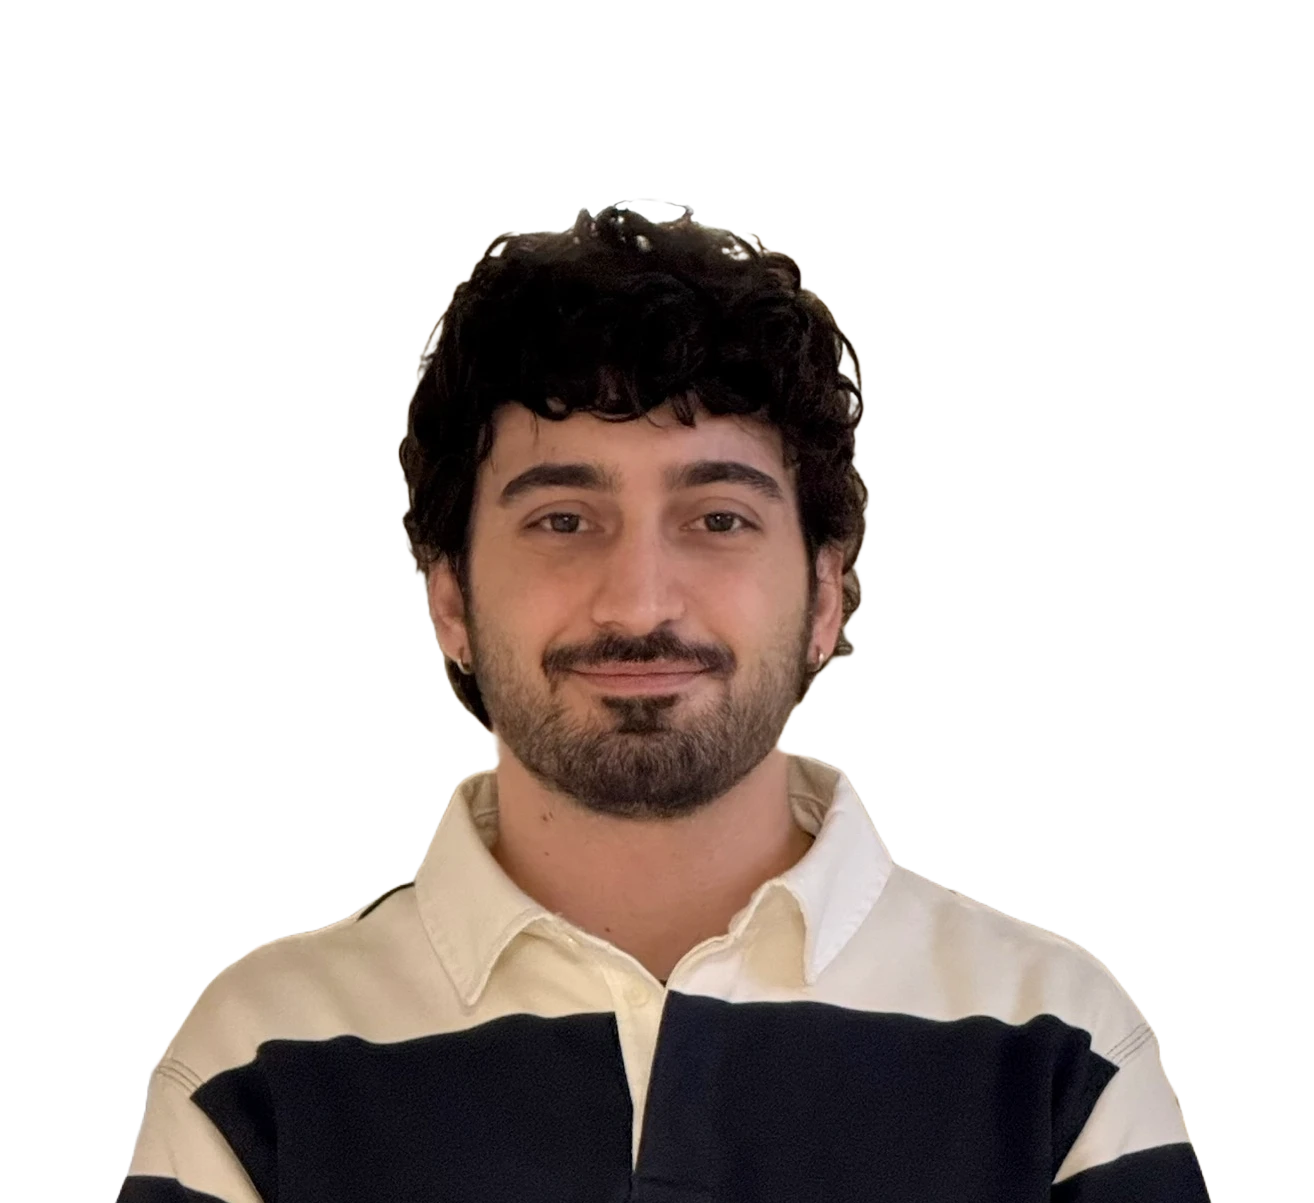
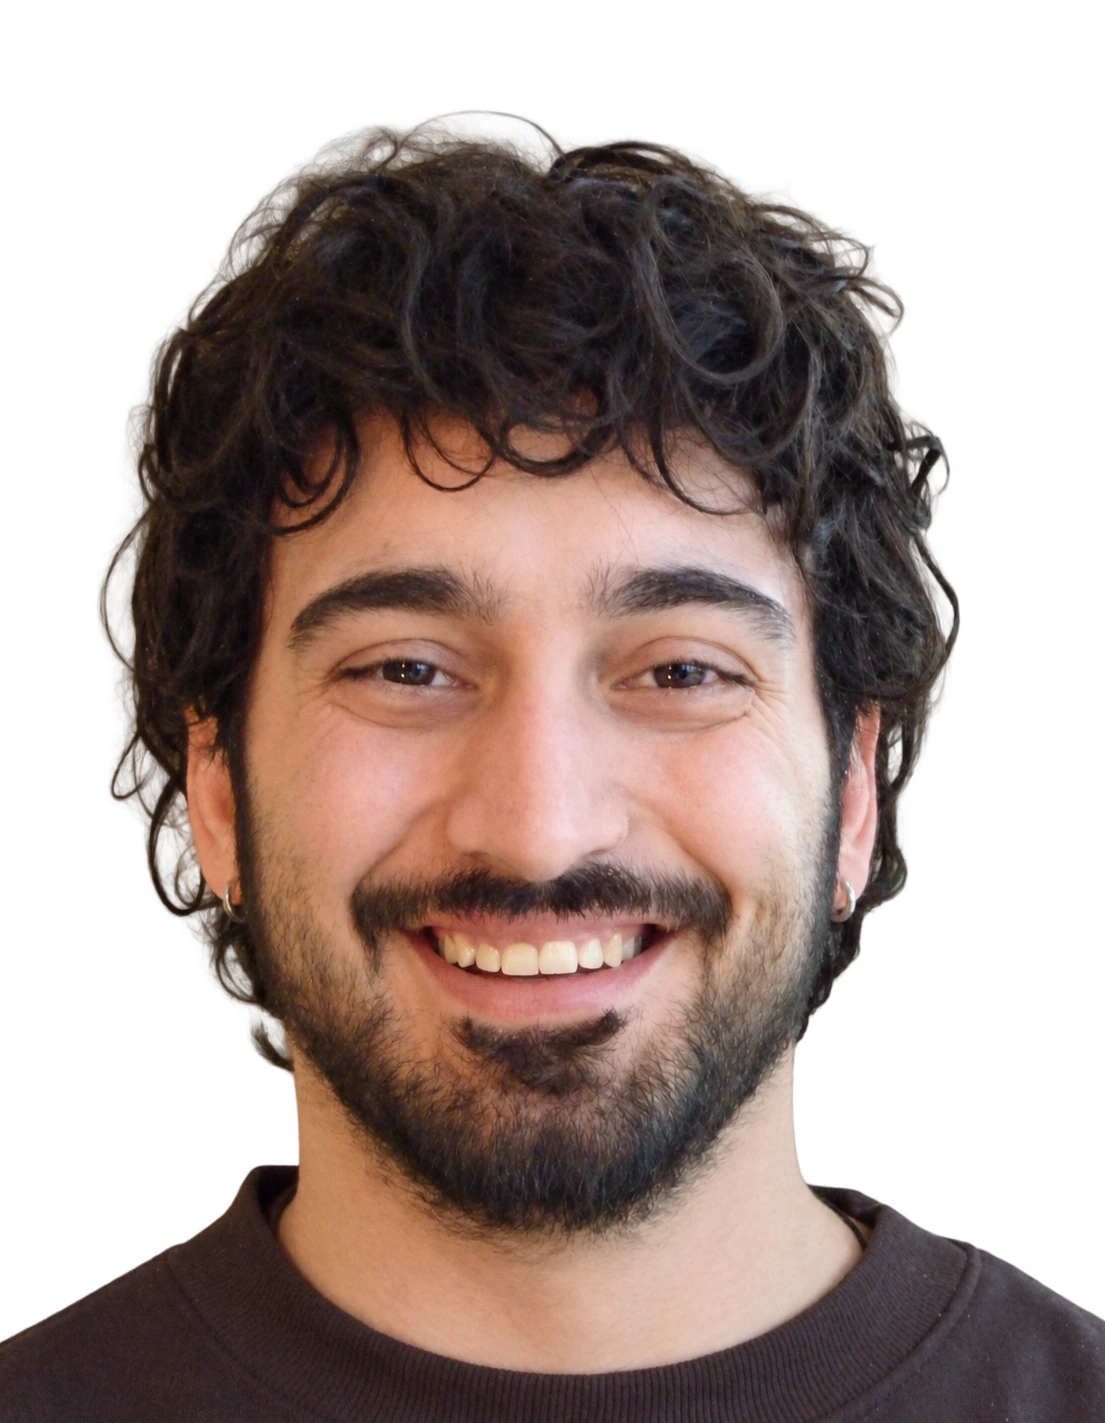
update(assets): match founder portrait lighting and framing
Use the supplied Antonio portrait and remove Simone's wall background with the built-in image tool. Preserve transparent alpha in WebP and share capsule crop rules across founders.

diff --git a/assets/css/main.scss b/assets/css/main.scss
@@ -1831,7 +1831,6 @@ canvas.has-geometry {
   left: -6px;
 }
 .company-portrait-window {
-  --portrait-anchor: 50%;
   position: relative;
   width: 100%;
   height: clamp(250px, 33svh, 310px);
@@ -1842,22 +1841,11 @@ canvas.has-geometry {
 .company-portrait-window > img {
   position: absolute;
   width: auto;
-  height: 115%;
+  height: 110%;
   max-width: none;
   left: 50%;
-  top: -7.5%;
-  transform: translateX(calc(0% - var(--portrait-anchor)));
-  object-fit: cover;
-}
-.company-portrait-window.portrait-simone {
-  --portrait-anchor: 44%;
-}
-.portrait-simone > img {
-  /* The flattened slide portrait includes a Sand border outside its original window. */
-  clip-path: ellipse(48% 48% at 50% 50%);
-}
-.company-portrait-window.portrait-antonio {
-  --portrait-anchor: 49%;
+  top: -5%;
+  transform: translateX(-50%);
 }
 .company-founder figcaption {
   padding-top: 64px;
@@ -1976,7 +1964,6 @@ canvas.has-geometry {
   .company-portrait-window > img {
     height: 104%;
     top: -2%;
-    border-radius: 0;
   }
   .company-founder figcaption {
     padding: 0;

diff --git a/DESIGN.md b/DESIGN.md
@@ -131,14 +131,10 @@ preprint has a clearly labeled, non-clickable placeholder.
 ## Media and motion
 
 Research photographs and tactile images come from `soar-touch-report/assets/img/`.
-Simone’s portrait is a crop from the flattened September RoboPitch slide; its source
-resolution limits sharpness on dense displays. Antonio’s transparent portrait comes
-from [his personal website](https://r-rapuano.com/assets/images/propic.png), encoded
-as WebP at its original 1314 × 1203 resolution. Both are centered in capsule masks.
-Both portraits retain their natural image proportions. Founder-specific horizontal
-face anchors keep the faces centered as capsule dimensions change.
-Simone's flattened slide border is masked inside the image before the outer capsule
-clips it, keeping the original Sand edge out of the portrait window.
+Both founder portraits use the supplied headshots, encoded as transparent WebP.
+Simone’s background removal and subtle lighting adjustment match Antonio’s supplied
+cutout. Their matched portrait framing uses shared optical centering in capsule masks.
+Mobile crops use a smaller image scale while preserving the capsule dimensions.
 The Sapienza logo uses the existing university artwork in `assets/img/Uniroma1.svg`. Product illustrations
 use the supplied transparent PNGs at two resolutions. A square, bounded composition
 keeps the capsule proportions fixed. The rear image is clipped to the opening; a matching
